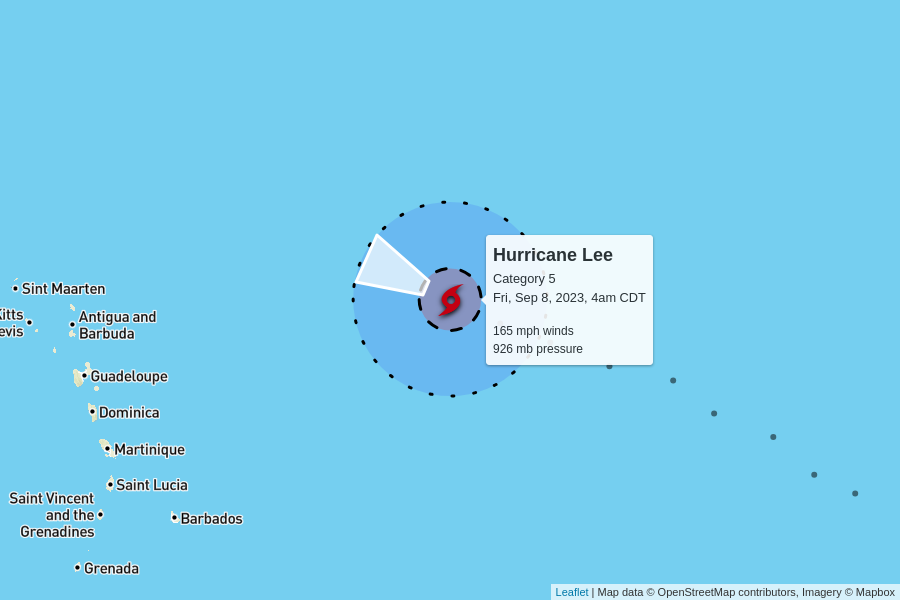
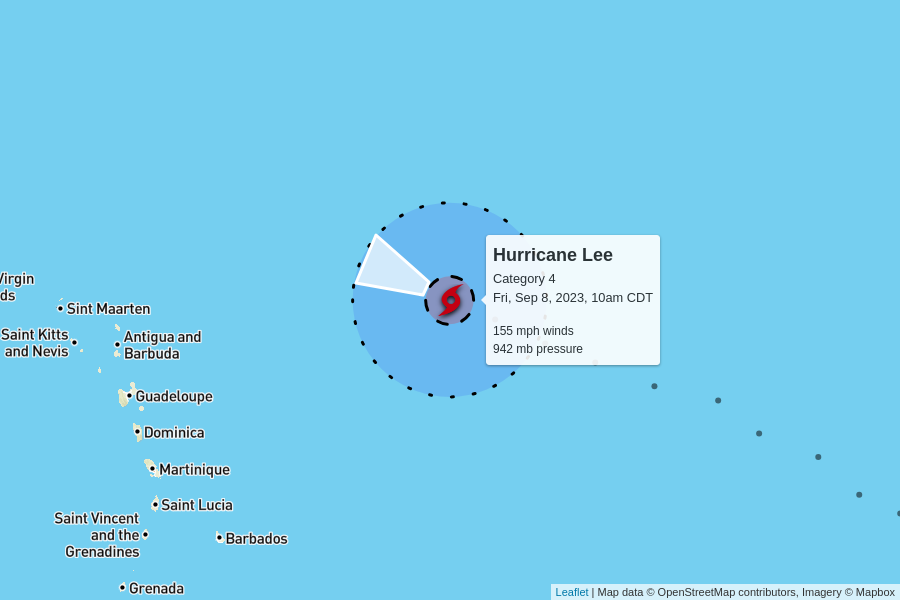
automatic update

diff --git a/docs/index.html b/docs/index.html
@@ -101,10 +101,10 @@
 
     <table>
       <tr>
-        <td colspan="6" class="storm category-5" >
+        <td colspan="6" class="storm category-4" >
           <h2>
-            Hurricane Lee - Category 5
-            <p class="updated">last updated <span data-time>2023-09-08T09:00:00.000Z</span></p>
+            Hurricane Lee - Category 4
+            <p class="updated">last updated <span data-time>2023-09-08T15:00:00.000Z</span></p>
           </h2>
         </td>
       </tr>
@@ -119,10 +119,10 @@
       </tr>
       <tr>
         <td class="spacer"></td>
-        <td>165 mph<br>+5 mph since last update</td>
-        <td>926 mb<br>-2 mb since last update</td>
+        <td>155 mph<br>-10 mph since last update</td>
+        <td>942 mb<br>+16 mb since last update</td>
         <td>
-          14 mph to the west-northwest
+          13 mph to the west-northwest
           <br/>
           <span style="display: inline-block; font-size: 1.5em; transform: rotate(295deg);">↑</span>
         </td>
@@ -148,7 +148,7 @@
         <td colspan="6" class="storm category-0" >
           <h2>
             Tropical Storm Margot
-            <p class="updated">last updated <span data-time>2023-09-08T09:00:00.000Z</span></p>
+            <p class="updated">last updated <span data-time>2023-09-08T15:00:00.000Z</span></p>
           </h2>
         </td>
       </tr>
@@ -164,9 +164,9 @@
       <tr>
         <td class="spacer"></td>
         <td>40 mph<br>0 mph since last update</td>
-        <td>1004 mb<br>0 mb since last update</td>
+        <td>1005 mb<br>+1 mb since last update</td>
         <td>
-          16 mph to the west-northwest
+          17 mph to the west-northwest
           <br/>
           <span style="display: inline-block; font-size: 1.5em; transform: rotate(290deg);">↑</span>
         </td>
